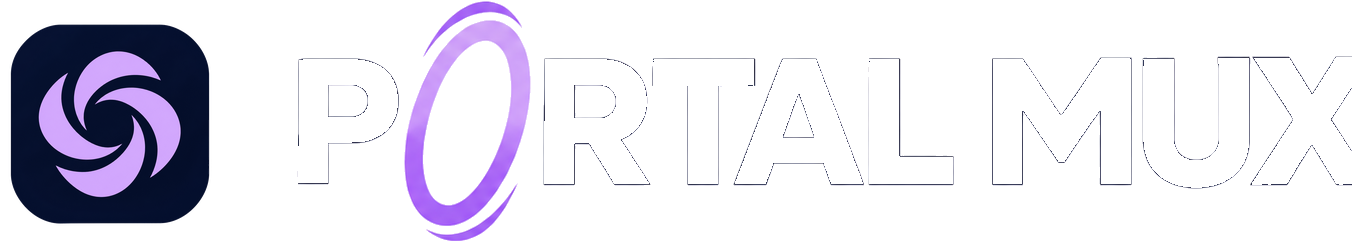
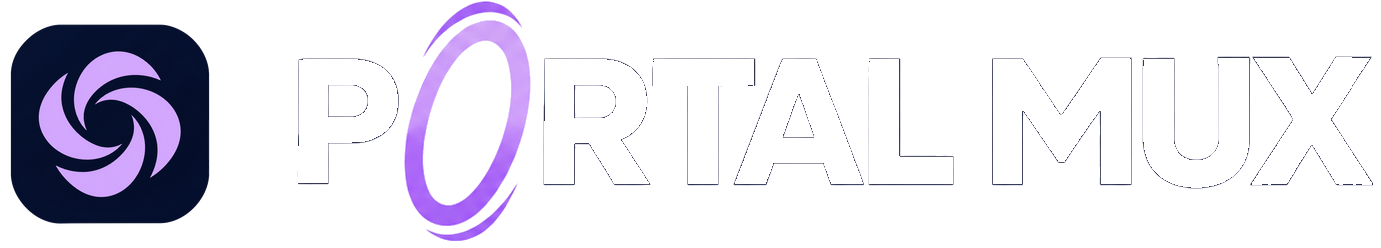
About: restore the lockup's cut-off X
The supplied lockups end mid-letter; the X's right side is mirrored from its left.

diff --git a/docs/BOOTSTRAP.md b/docs/BOOTSTRAP.md
@@ -318,7 +318,7 @@ Status on Linux, 2026-11-14. "verified" = tested end to end against the local te
 - [x] **Session menu + toolbar** as in KRDC, acting on the current tab: full screen (Ctrl+Shift+F; menu, toolbars, sidebar, tabs and status bar hidden, a toolbar slides in when the pointer touches the top edge), copy screenshot to clipboard, view only, clipboard sharing, show local cursor, grab all possible keys, scale to window, disconnect (Ctrl+W, any tab). Toggles start from the connection's settings and last for the session. Verified under Xvfb against Xvnc + xterm (Ctrl+W deletes a word remotely only while keys are grabbed, otherwise it disconnects); the Wayland inhibitor verified against a headless KWin (`inhibit_shortcuts` → `active`, no duplicate, destroy on release). Not done: KRDC's Meta+Shift+F19 for grab, "grab keys when entering full screen", Alt+Tab/Win capture on Windows and macOS.
 - [x] **Status bar**: on the left only the current tab's session state ("Windows 11: Connecting…" until connected, "Connected" for 3 s, Disconnected/Error until the tab changes; another tab's state never shows; switching tabs clears it) and action messages (KVM, Proxmox). On the right fixed cells, bordered in the separator shade (20% text on the window colour, restyled on theme change), with minimum widths so changing numbers don't shift them: protocol, address, size (remote screen, or a terminal's columns×rows), scale (1:1 or N%), fps, mode (view only, keys grabbed, a VM console's state), NUM (this computer's Num Lock, dimmed when off, polled every 0.5 s; hidden when unknown). Cells that don't apply are hidden. Verified on RDP (`RDP | 127.0.0.1:3390 | 1024×700 | 91% | 0 fps | NUM`).
 - [x] **App icon** (the lavender vortex from the Portal Mux icon pack, `data/icons/`, since 2026-11-17: four flat lavender `#CBA4F7` spiral blades on a dark navy `#09152F` rounded tile, no gradient; it replaced the P/M monogram): the window and taskbar icon from Qt resources (16–256 px with the taskbar's 28 px; `setDesktopFileName("portal-mux")` for the Wayland app id), the hicolor tree (16–512 px and the scalable SVG) installed to `share/icons/hicolor` and `Icon=portal-mux` in the desktop file, `portal-mux.rc` with `portal-mux.ico` for the Windows executable, `portal-mux.icns` as the macOS bundle icon. The pack's 1024 px master isn't in the repository. Verified on X11 (`_NET_WM_ICON` set, `WM_CLASS` portal-mux) and `desktop-file-validate`; Windows and macOS untested.
-- [x] **About dialog** (`About.cpp`, Help → About), laid out as spark-commander's: the horizontal brand lockup (icon and the PORTAL MUX wordmark, `data/brand/`, 56 px high: white letters on a dark palette, navy on a light one; verified under Xvfb with Breeze Dark and Breeze Light), version, one line, the licence's link; then "Made with the work of these projects" in a scrolling list, "Comes with it" (moonlight-common-c, ENet, nanors, scrcpy, Material Icon Theme, Tabler Icons, Lucide) and "Built on" (Qt 6, QtKeychain, KWindowSystem, FreeRDP, LibVNCClient, spice-gtk, GLib, libssh, libvterm, FFmpeg, OpenSSL, SDL 3, libvirt, wayland-protocols), each its name linked to its site, its licence and what it does here; libraries only in some builds are listed only when built in; the Proxmox trademark note at the end. A close button only in its title bar, as every dialog.
+- [x] **About dialog** (`About.cpp`, Help → About), laid out as spark-commander's: the horizontal brand lockup (icon and the PORTAL MUX wordmark, `data/brand/`, 56 px high: white letters on a dark palette, navy on a light one; the supplied files cut off the X's right side, restored by mirroring its left side; verified under Xvfb with Breeze Dark and Breeze Light), version, one line, the licence's link; then "Made with the work of these projects" in a scrolling list, "Comes with it" (moonlight-common-c, ENet, nanors, scrcpy, Material Icon Theme, Tabler Icons, Lucide) and "Built on" (Qt 6, QtKeychain, KWindowSystem, FreeRDP, LibVNCClient, spice-gtk, GLib, libssh, libvterm, FFmpeg, OpenSSL, SDL 3, libvirt, wayland-protocols), each its name linked to its site, its licence and what it does here; libraries only in some builds are listed only when built in; the Proxmox trademark note at the end. A close button only in its title bar, as every dialog.
 - [x] **Tree rows aligned** (`ElidingDelegate`, Connections, Sessions, Proxmox): Qt's item layout puts the text a pixel further right when it fits than when it's cut with "…", so one short name stood out; the delegate measures the text rect as if it never fit and draws the (cut) text itself. Verified by pixel: all rows start at the same column, cut or not.
 - [x] **SSH port forwarding** (SSH connection → Forwarding: "Local forwards (ssh -L)", "Remote forwards (ssh -R)", "SOCKS proxy port (ssh -D)"; `SshForwards`, pumped from the terminal session's own loop over the same SSH connection, jump hosts included): OpenSSH's `[bind:]port:host:hostport`, several separated by commas, IPv6 in brackets; local listeners on loopback unless a bind address is given (`*` = all), remote ones ask the server to bind its loopback (its GatewayPorts decides), the SOCKS proxy speaks SOCKS5 CONNECT without authentication (domain names resolved on the server side). What runs and what failed (port in use, server refused) shows dimmed at the top of the terminal; the session goes on either way. Verified through a private sshd with curl: each kind, a 30 MB file byte-identical through each (400–1200 MB/s on loopback). Unit tests for the parser. shortcut: blocking writes to local sockets and blocking connects for -R; not done: X11 forwarding.
 - [x] **Hardware video decoding** (Android and Moonlight → Display → "Hardware video decoding", on by default; `VideoDecoder`): FFmpeg's device for the platform (VA-API, D3D11VA, VideoToolbox) when its decoder supports it for the codec; the GPU format is chosen in `get_format`, and FFmpeg falls back to software when the GPU refuses a stream (a 64×48 test clip does); frames are copied back (`av_hwframe_transfer_data`) and converted to BGRX by swscale, now threaded (`sws_scale_frame`, a thread per core — software decoding gains too). Measured on an RX 5700 XT: 4K H.264 at 80 Mbit/s 64 fps on the GPU against 49 in software with a third less CPU; an easy 1080p clip is quicker in software, both far above 60 fps. Not tested in a live Android/Moonlight session. shortcut: no zero-copy (GL/Vulkan rendering).
